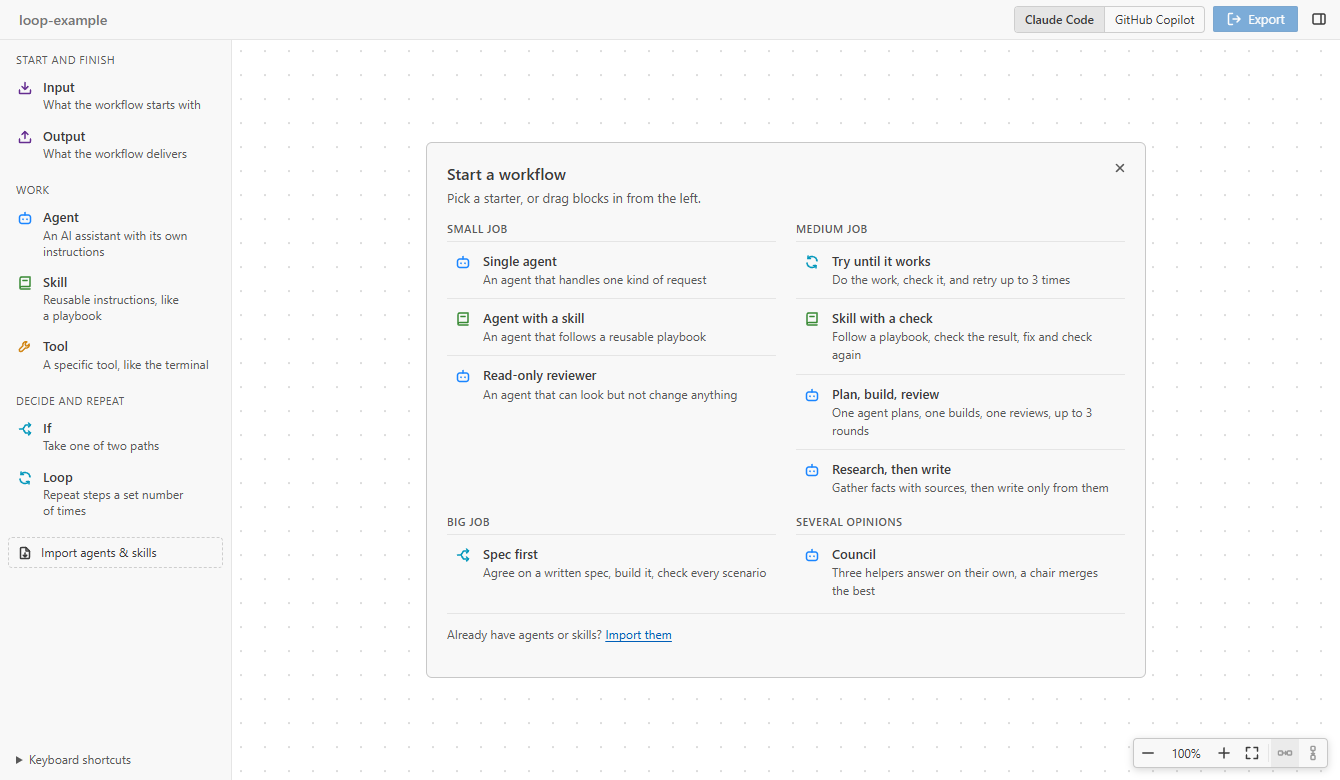
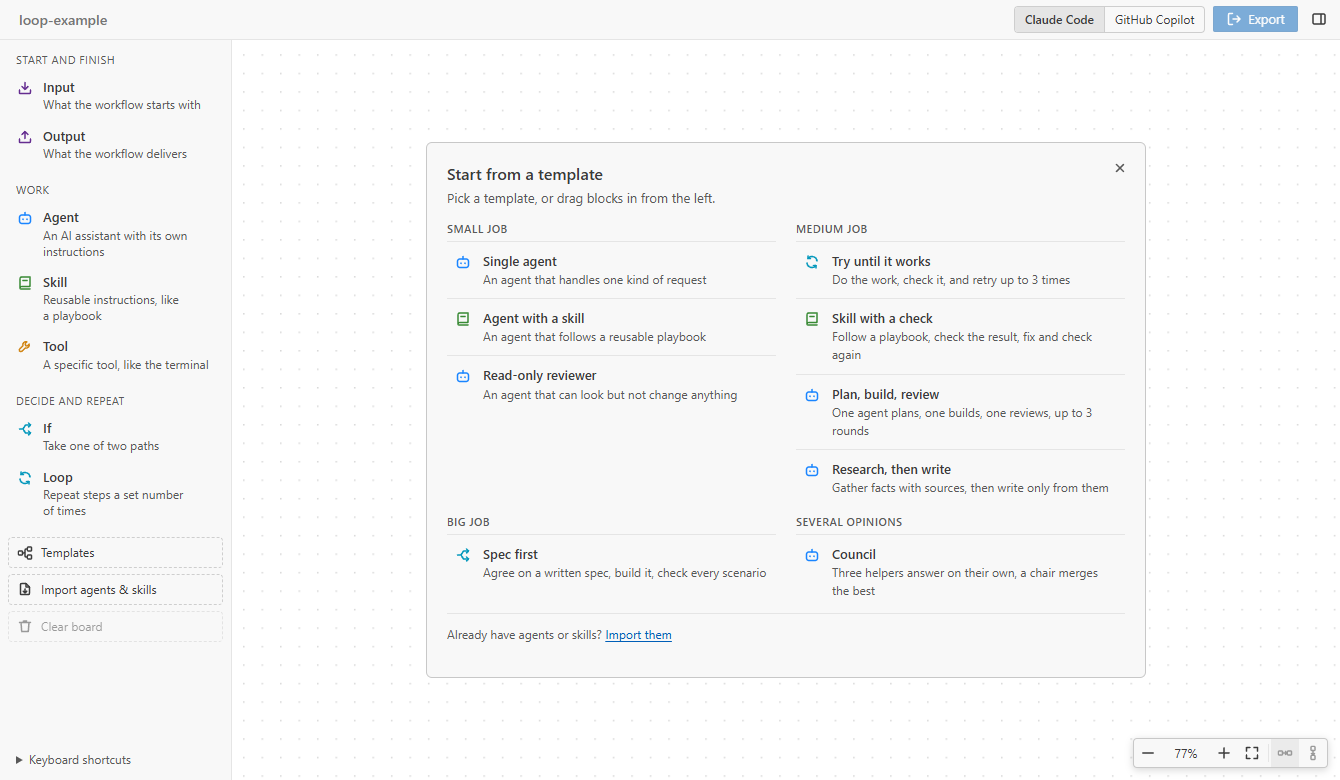
Release 0.4.0
Templates for every size of job, steps that hand work over in files,
linked plugins, downloads from GitHub and marketplaces, and Templates
and Clear board buttons. Refresh the templates screenshot.

Changed region(s): [[0.3672, 0.2154, 0.5201, 0.2769], [0.0, 0.7077, 0.1224, 0.7692], [0.0306, 0.8, 0.0612, 0.8308]]

diff --git a/site/index.html b/site/index.html
@@ -187,7 +187,7 @@
     <section id="import" class="import" aria-labelledby="import-title">
       <div class="import-copy">
         <h2 id="import-title">Already have agents and skills?</h2>
-        <p>Import brings them onto the board from <code>.claude</code> or <code>.github</code> in your project, or from your user folder. Skills an agent preloads arrive already linked. Edit them on the board, export, and the same files update in place.</p>
+        <p>Import brings them onto the board from <code>.claude</code> or <code>.github</code> in your project, or from your user folder. Skills an agent preloads arrive already linked. Edit them on the board, export, and the same files update in place. Plugins you installed in Claude Code are linked as they are, and agents and skills from any GitHub repository or marketplace can be copied in.</p>
       </div>
       <figure class="import-art" aria-hidden="true">
         <div class="stack">

diff --git a/README.md b/README.md
@@ -13,7 +13,8 @@ Draw the workflow with blocks and arrows, answer a few plain questions for each 
 - **See the whole workflow.** Steps, decisions and retries sit on one board, numbered in the order they run.
 - **Real files, not a new format.** You get standard agent and skill files in the places Claude Code and GitHub Copilot look for them. They keep working without Skill Canvas installed.
 - **One sketch, two tools.** Switch between Claude Code and GitHub Copilot at any time. The same board prints both.
-- **Bring what you have.** Import the agents and skills you already wrote, edit them on the board, and export them back to the same files. Settings the board doesn't show are kept as they are.
+- **Bring what you have.** Import the agents and skills you already wrote, edit them on the board, and export them back to the same files. Settings the board doesn't show are kept as they are. Link the plugins you installed in Claude Code, or copy agents and skills from any GitHub repository or marketplace.
+- **Start from a proven shape.** Templates for every size of job, from a single agent to a spec-first build or a council of reviewers.
 - **Good skills by default.** Every block is checked against Anthropic's [skill authoring best practices](https://platform.claude.com/docs/en/agents-and-tools/agent-skills/best-practices), with plain tips on how to make it better.
 
 ## Quick start
@@ -24,7 +25,7 @@ Open a folder in VS Code. Then click **New Canvas** in the **Skill Canvas** view
 
 Pick a template to begin with a working flow, or close the card and drag blocks in from the left. The templates are grouped by the size of the job. Click **Templates** in the block list to open them again at any time: on a board with blocks, the template goes below them. **Clear board** removes every block; undo brings them back.
 
-![A new canvas: the blocks on the left and nine templates grouped as Small job, Medium job, Big job and Several opinions](docs/images/starters.png)
+![A new canvas: the blocks on the left with the Templates, Import and Clear board buttons, and nine templates grouped as Small job, Medium job, Big job and Several opinions](docs/images/starters.png)
 
 | Template                 | What it does                                                                                     |
 | ------------------------ | ------------------------------------------------------------------------------------------------ |

diff --git a/CHANGELOG.md b/CHANGELOG.md
@@ -8,6 +8,10 @@ and this project adheres to [Semantic Versioning](https://semver.org/spec/v2.0.0
 
 ## [Unreleased]
 
+## [0.4.0] - 2026-10-13
+
+Templates for every size of job, steps that hand work over in files, and agents and skills from plugins and GitHub.
+
 ### Added
 
 - Four templates with their instructions filled in:
@@ -134,7 +138,8 @@ First public release. Version 0.1.0 was prepared but not published.
 
 - Licensed under the Apache License 2.0.
 
-[Unreleased]: https://github.com/alaturqua/skill-canvas/compare/v0.3.0...HEAD
+[Unreleased]: https://github.com/alaturqua/skill-canvas/compare/v0.4.0...HEAD
+[0.4.0]: https://github.com/alaturqua/skill-canvas/compare/v0.3.0...v0.4.0
 [0.3.0]: https://github.com/alaturqua/skill-canvas/compare/v0.2.1...v0.3.0
 [0.2.1]: https://github.com/alaturqua/skill-canvas/compare/v0.2.0...v0.2.1
 [0.2.0]: https://github.com/alaturqua/skill-canvas/compare/v0.1.3...v0.2.0
